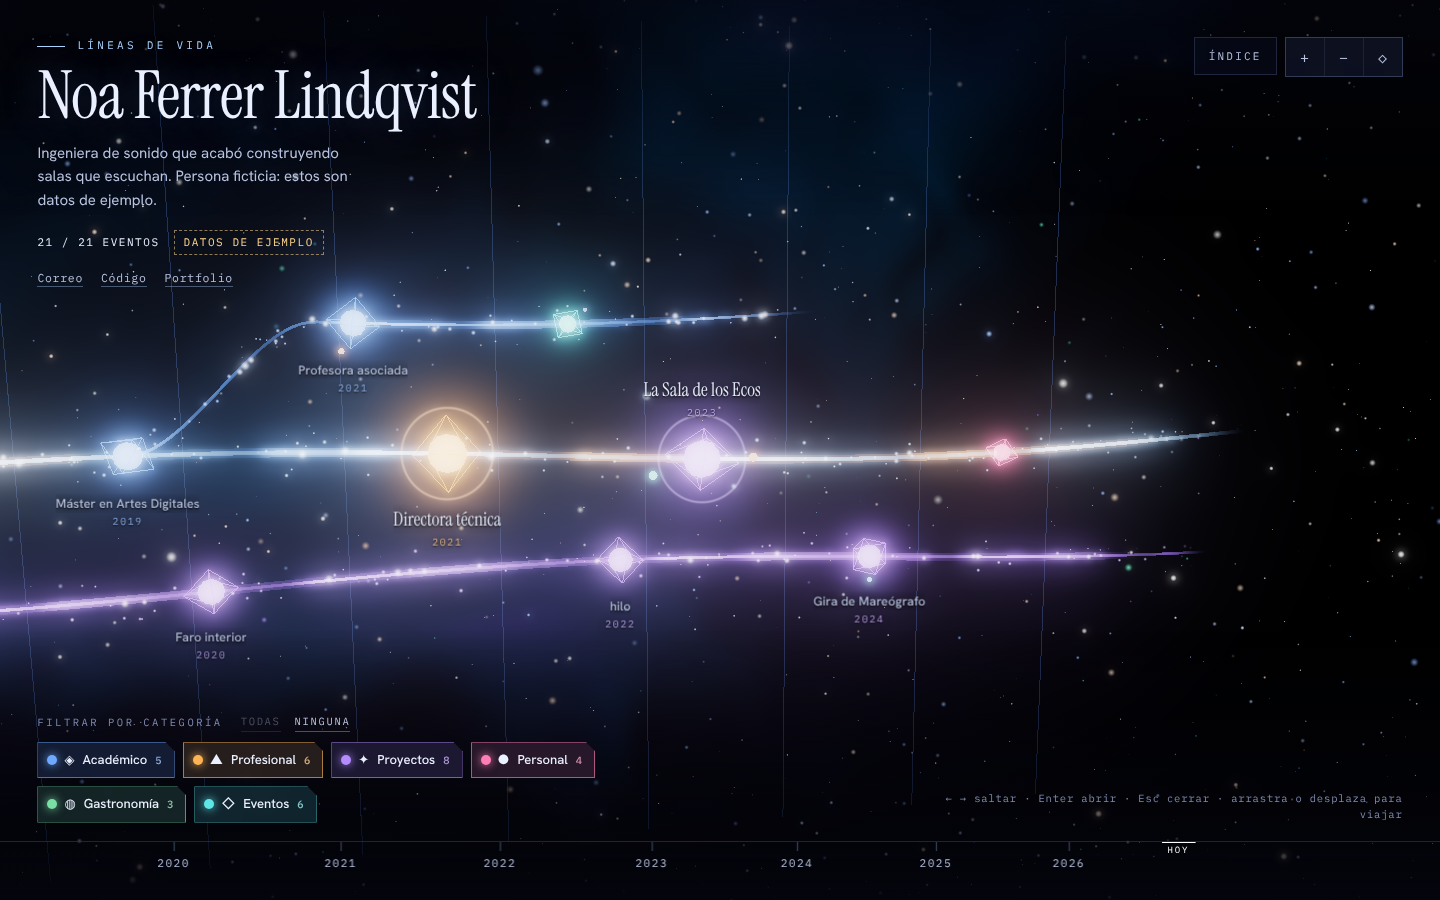
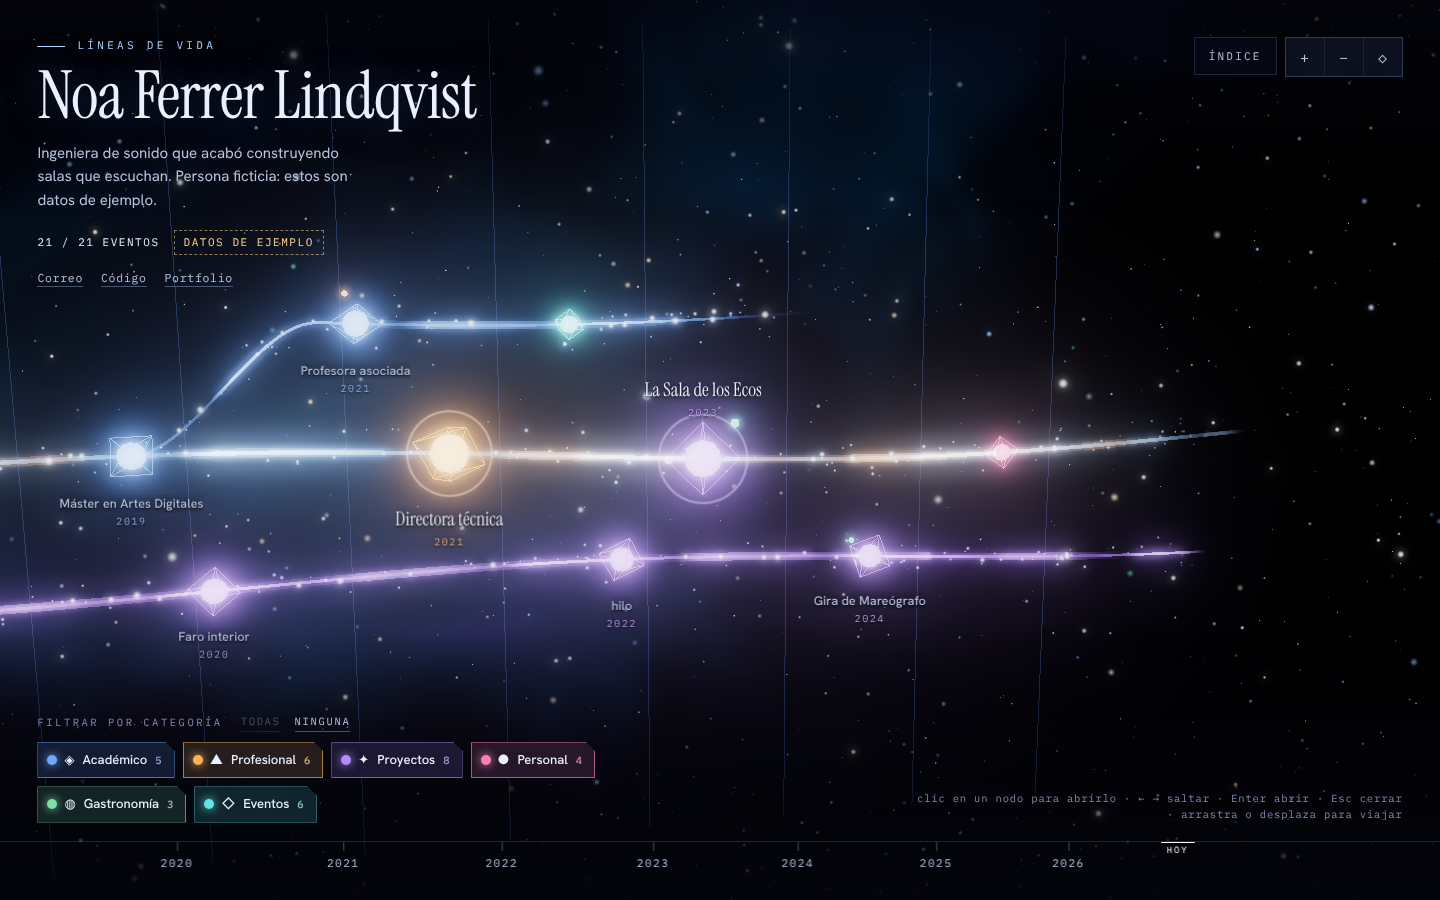
docs: estado de las discrepancias, informe de coherencia y capturas nuevas
- DOC_DISCREPANCIES con estado (resuelta / aceptada / abierta) por punto.
- COHERENCE_REPORT.md: qué se revisó, qué cambió y qué queda abierto.
- DEV_NOTES: build:public-data, pop-up no modal, ui-check con datos reales y
  Estado al 11/11. QA_REPORT: observaciones 1 y 2 resueltas.
- Schema más fiel al validador (URL sin mayúsculas, branchFrom kebab-case) y
  textos del pop-up y de la regla en STRINGS (C6, C7, C10).
- Capturas 01-escena y 08-movil regeneradas con datos de ejemplo.

Claude-Session: https://claude.ai/code/session_01SH3U5YXDA4fjxU1w7NAu1Y

diff --git a/docs/DOC_DISCREPANCIES.md b/docs/DOC_DISCREPANCIES.md
@@ -1,53 +1,52 @@
-# Discrepancias contrato ↔ código (agente 7, documentación)
+# Discrepancias contrato ↔ código
 
-Detectadas al documentar el proyecto el 10/11/2026 leyendo `docs/CONTRACT.md`, `docs/DEV_NOTES.md` y el código.
-El `README.md` describe siempre lo que hace el código. Aquí se listan las diferencias para el agente de coherencia.
+Detectadas por el agente 7 (documentación) el 10/11/2026. Revisadas y cerradas, cuando se ha podido, por el
+agente 8 (coherencia) el 11/11/2026 en la rama `feature/ux-coherencia`; el detalle está en
+[`COHERENCE_REPORT.md`](COHERENCE_REPORT.md). El `README.md` describe siempre lo que hace el código.
 
-Gravedad: **A** = conviene decidir o corregir · **B** = desviación consciente, ya razonada en DEV_NOTES · **C** = detalle menor.
+Gravedad: **A** = conviene decidir o corregir · **B** = desviación consciente, razonada en DEV_NOTES · **C** = detalle menor.
 
-## A. Requieren decisión o corrección
+Estado: **resuelta** (código o documentación corregidos) · **aceptada** (se mantiene, con el motivo) · **abierta**.
 
-| # | Tema | Contrato | Código | Nota |
-| --- | --- | --- | --- | --- |
-| A1 | CI | Exige `.github/workflows/ci.yml` (lint, typecheck, test con cobertura, build, `docker build`) | No existe el directorio `.github/` | El README documenta el flujo como definido en el contrato y avisa de que el fichero no está. Si otro agente lo añade, hay que quitar ese aviso (secciones 5.12 y 10 del README) |
-| A2 | Eventos privados | «`private` se oculta salvo `?private=1`» | El filtrado ocurre en el cliente (`TimelineFactory`). `life.json` se sirve entero y `?private=1` lo puede poner cualquiera | No es un control de acceso. El contrato no lo aclara y puede dar una falsa sensación de privacidad. El README lo avisa de forma explícita (3.8, 8 y 10) |
-| A3 | `hr/` en el contexto de Docker | «Datos personales nunca dentro de la imagen» | `.dockerignore` excluye `data/` y `public/data/life.json`, pero **no** `hr/`. `COPY . .` lo copia a la etapa de build | No llega a la imagen final (solo se copia `dist/`), pero queda en las capas y la caché de la etapa de build. `hr/` sí está en `.gitignore`. Sugerencia: añadir `hr` a `.dockerignore` |
-| A4 | Cadena de calidad | `lint && typecheck && test:coverage && build` debe pasar en limpio | Según DEV_NOTES, `test:coverage` no alcanzaba el umbral (solo había tests de humo en `tests/domain/smoke.test.ts`) | Depende del trabajo del agente de tests. El README no da cifras y remite a `docs/QA_REPORT.md` |
-| A5 | `docker build` | Imagen multi-stage funcional | `Dockerfile` y `docker-compose.yml` escritos pero sin ejecutar (registros bloqueados en el entorno) | Documentado como limitación. Pendiente de verificar en CI o en otra máquina |
-| A6 | `aria-modal` | Pop-up con `role="dialog"`, `aria-modal` | Se declara `aria-modal="true"`, pero el pop-up es un panel lateral sin velo: escena, filtros, controles e índice siguen operables con el puntero. El foco de teclado sí queda atrapado | Incoherencia semántica de accesibilidad. O se quita `aria-modal`, o se hace inerte el resto mientras está abierto |
+## A. Requerían decisión o corrección
 
-## B. Desviaciones conscientes (documentadas en DEV_NOTES)
+| # | Tema | Estado | Resolución |
+| --- | --- | --- | --- |
+| A1 | CI | Resuelta | `.github/workflows/ci.yml` existe (jobs `quality` y `docker`) y está en verde en GitHub. README (2, 5.12, 10) y contrato actualizados |
+| A2 | Eventos privados | Resuelta | Sigue siendo un filtro de cliente (no es control de acceso) y así lo dicen README 3.8/8 y el contrato. Para despliegues públicos existe `npm run build:public-data` (genera `data/public/life.json` sin privados) y `docker-compose.public.yml`; ambos documentados y con tests (`tests/scripts/build-public-data.test.ts`) |
+| A3 | `hr/` en el contexto de Docker | Resuelta | `.dockerignore` excluye `hr/` |
+| A4 | Cadena de calidad | Resuelta | `lint && typecheck && test:coverage && build` en verde; cobertura ~99 % (umbral 75 %) |
+| A5 | `docker build` | Resuelta | Se construye en la CI, con prueba de humo (`/healthz`, `/`, ejemplo 200 y `/data/life.json` 404). En el entorno de desarrollo sigue sin poder ejecutarse (registros bloqueados) |
+| A6 | `aria-modal` | Resuelta | El pop-up pasa a ser un diálogo **no modal**: sin `aria-modal` y sin trampa de Tab. Se eligió esta opción y no `inert` porque el diseño exige que escena, filtros, índice y ←/→ sigan operables con el panel abierto (B5, B6); hacerlo modal habría roto ese comportamiento. Contrato, README y tests actualizados |
+
+## B. Desviaciones conscientes
+
+Todas **aceptadas**: están razonadas en `docs/DEV_NOTES.md` y descritas en el README.
 
 | # | Tema | Contrato | Código |
 | --- | --- | --- | --- |
-| B1 | Volumen de Docker | Monta `./data/life.json` en `/usr/share/nginx/html/data/life.json:ro` | Monta el directorio `./data` en `/usr/share/nginx/userdata:ro`; nginx resuelve con `try_files /userdata/life.json /html/data/life.json =404`. La ruta literal del contrato sigue funcionando si se monta el fichero suelto |
-| B2 | `.gitignore` | Ignora `/data/life.json` y `/public/data/life.json` | Ignora `/data/*` (salvo `.gitkeep`), `/public/data/life.json` y además `/hr/`. Más amplio que el contrato |
-| B3 | Reglas de validación | ids únicos, categorías existentes, `branchFrom` existe, fechas válidas, `end >= start`, color hex, URLs http(s) | Además: ids y `branch` en kebab-case; `main` no admite `branchFrom`; `branchFrom` no puede apuntar al propio evento ni a la misma rama; un único origen por rama; sin ciclos entre ramas; año ≥ 1000; día real del mes; `media.type` solo `image` y `alt` obligatorio; al menos una categoría definida |
-| B4 | Zoom y rueda | «arrastrar/scroll para recorrer el tiempo, zoom» | Rueda = viajar; zoom con `Ctrl`/`Cmd`+rueda, pellizco, teclas `+`/`-` o botones; `0` = vista general |
-| B5 | Selección | «clic/Enter → pop-up» | Dos niveles: ←/→ enfocan (vuelo + pulso), `Enter`/`Espacio` abren. Con el pop-up abierto, ←/→ cambian de evento sin cerrarlo |
-| B6 | «Clic fuera» | Cierra el pop-up | Lo cierra un clic en el vacío de la escena o en cualquier zona sin `[data-keep-popup]`. Clic en filtros, controles o índice no lo cierra; arrastrar tampoco |
-| B7 | Marcas de año y rótulos | «Marcas de año sobre el eje» | Meridianos en la escena (`YearMarkers`) más regla y rótulos en DOM (`YearRuler`, `NodeLabels`) colocados por proyección |
-| B8 | Validación en el repositorio | El contrato no dice dónde se valida | `HttpJsonTimelineRepository` recibe el validador de dominio por constructor |
+| B1 | Volumen de Docker | Monta `./data/life.json` en `/usr/share/nginx/html/data/life.json:ro` | Monta el directorio `./data` en `/usr/share/nginx/userdata:ro`; nginx resuelve con `try_files`. El contrato ya lo menciona |
+| B2 | `.gitignore` | Ignora `/data/life.json` y `/public/data/life.json` | Ignora `/data/*` (salvo `.gitkeep`), `/public/data/life.json` y `/hr/`. Más amplio que el contrato |
+| B3 | Reglas de validación | Lista básica | Además: kebab-case, `main` sin `branchFrom`, un origen por rama, sin ciclos, año ≥ 1000, día real del mes, `media` solo `image` con `alt`, al menos una categoría, `shortTitle` ≤ 40 caracteres |
+| B4 | Zoom y rueda | «arrastrar/scroll para recorrer el tiempo, zoom» | Rueda = viajar; zoom con `Ctrl`/`Cmd`+rueda, pellizco, `+`/`-` o botones; `0` = vista general |
+| B5 | Selección | «clic/Enter → pop-up» | ←/→ enfocan, `Enter`/`Espacio` abren; con el pop-up abierto, ←/→ cambian de evento |
+| B6 | «Clic fuera» | Cierra el pop-up | Lo cierra un clic en el vacío de la escena o fuera de `[data-keep-popup]`; arrastrar no |
+| B7 | Marcas de año y rótulos | «Marcas de año sobre el eje» | Meridianos en la escena más regla y rótulos en DOM |
+| B8 | Validación en el repositorio | No dice dónde | `HttpJsonTimelineRepository` recibe el validador por constructor |
 
 ## C. Detalles menores
 
-| # | Tema | Contrato | Código |
+| # | Tema | Estado | Nota |
 | --- | --- | --- | --- |
-| C1 | Causas del fallback | «si responde 404 o no valida» | También cae al ejemplo con cualquier estado HTTP no 2xx, error de red o JSON mal formado |
-| C2 | Parámetros de URL | Solo menciona `?private=1` y el filtro en la URL | Existen además `?example=1`, `?debug=1`, `?nowebgl=1`, `?reduced-motion=1`. Los indicadores se activan con cualquier valor distinto de `0` o `false` (también `?private` sin valor) |
-| C3 | Salida de `TimelineLayout` | `{ nodes: {eventId, position, branch}, branches: {id, points[]} }` | Añade `years`, `bounds`, `nowX`; en nodos `span`; en ramas `originEventId`, `lane`, `open` |
-| C4 | Árbol de `src/` | Lista un subconjunto de clases | Existen además `CategorySelection`, `TimelineFactory`, `safeUrl`, `CompositeTimelineView`, `EventList`, `NodeLabels`, `YearRuler`, `KeyboardShortcuts`, `LiveAnnouncer`, `ViewControls`, `labelLayout`, `Nebula`, `YearMarkers`, `SelectionPulse`, `PointerInput`, `RenderLoop`, `webgl`, `math`, `textures` |
-| C5 | Fallback sin WebGL | «si no hay WebGL» | Se exige **WebGL2** (`getContext('webgl2')`): un dispositivo solo con WebGL1 va al modo lista |
-| C6 | Tooltip | «título + fechas» | Muestra categoría principal, título y fechas. El comentario de la clase `Tooltip` dice «+ resumen corto», pero el resumen no se pinta |
-| C7 | JSON Schema «equivalente» | `schema/life.schema.json` equivalente al tipo | Describe la forma, pero es más laxo que el validador: admite días imposibles (`2023-02-31`), años < 1000 y `branchFrom` sin formato; su patrón de URL distingue mayúsculas (`^https?://`) y el validador no. Nada en el proyecto valida contra el schema |
-| C8 | `SceneBuildOptions.fogDensity` | — | La opción se aplica a los materiales de las ramas, pero la niebla de la escena se crea en `ThreeTimelineView.render` con `0.0068` y `DEFAULT_PALETTE.background` fijos: cambiar la opción o la paleta en `SceneBuilder` no cambia la niebla ni el fondo |
-| C9 | Presupuesto de partículas | «`prefers-reduced-motion` reduce partículas» | `particleBudget` se evalúa una vez en `main.ts`; un cambio posterior de la preferencia o del ancho de ventana no lo recalcula (el resto del modo reducido sí reacciona en vivo) |
-| C10 | Textos de interfaz | — | No todos están en `strings.ts`: «Cuándo», «Dónde», «Con» (`EventPopup`), «hoy» (`YearRuler`) y los de `index.html` están escritos en el sitio. Relevante para la i18n futura |
-| C11 | «Añadir un efecto sin modificar» | «nuevos efectos = nuevas clases que implementan `SceneEffect`» | Cierto para la vista, pero hay que registrar la clase en la lista `effects` de `SceneBuilder.build()`; no hay registro externo |
-| C12 | Cabeceras de seguridad en desarrollo | — | CSP y demás cabeceras solo las pone nginx; `npm run dev` y `npm run preview` no las aplican, así que un fallo de CSP solo se ve tras desplegar o con `ui-check` contra nginx |
-
-## Notas para quien mantenga el README
-
-- El README no incluye cifras de cobertura ni resultados de comprobaciones: remite a `docs/QA_REPORT.md`, que en el momento de escribirlo aún no existía.
-- Si se resuelve A1 o A5, actualizar los avisos de las secciones 2, 5.12 y 10 del README.
-- Capturas en `docs/img/` copiadas de `/tmp/ui-shots` (datos de ejemplo, persona ficticia).
+| C1 | Causas del fallback | Aceptada | También cae al ejemplo con cualquier estado no 2xx, error de red o JSON mal formado. Es más robusto; README 3.3 lo documenta |
+| C2 | Parámetros de URL | Aceptada | `?example`, `?debug`, `?nowebgl`, `?reduced-motion` son herramientas de desarrollo y prueba; documentados en README 4.5 y DEV_NOTES |
+| C3 | Salida de `TimelineLayout` | Aceptada | Añade `years`, `bounds`, `nowX`, `span`, `originEventId`, `lane`, `open`: superconjunto del contrato |
+| C4 | Árbol de `src/` | Aceptada | El contrato lista un subconjunto; el árbol completo está en README 5 |
+| C5 | Fallback sin WebGL | Aceptada | Se exige WebGL2; documentado en README 2 |
+| C6 | Tooltip | Resuelta | El comentario de `Tooltip` ya no promete el resumen: categoría + título completo + fechas |
+| C7 | JSON Schema «equivalente» | Resuelta en parte | El patrón de URL ya no distingue mayúsculas (como el validador), `branchFrom` usa el formato kebab-case y `shortTitle` lleva `minLength`/`maxLength`. **Aceptado**: días imposibles y años < 1000 siguen siendo cosa del validador (un patrón no los expresa de forma legible); nada valida contra el schema (sin `ajv`) |
+| C8 | `SceneBuildOptions.fogDensity` | Abierta | La niebla de la escena y el fondo siguen fijos en `ThreeTimelineView.render`. Sin efecto visible hoy; corregir si se añade un tema de color |
+| C9 | Presupuesto de partículas | Abierta | `particleBudget` se calcula al cargar. Documentado como limitación en README 10 |
+| C10 | Textos de interfaz | Resuelta en parte | «Cuándo», «Dónde», «Con» y «hoy» pasan a `STRINGS`. Quedan los textos de `index.html` (README 6.5) |
+| C11 | «Añadir un efecto sin modificar» | Aceptada | Hay que registrar la clase en `SceneBuilder.build()`; README 6.2 lo explica |
+| C12 | Cabeceras de seguridad en desarrollo | Aceptada | Solo nginx aplica la CSP; `ui-check` se puede lanzar contra nginx (DEV_NOTES) |

diff --git a/docs/DEV_NOTES.md b/docs/DEV_NOTES.md
@@ -13,6 +13,7 @@ y cómo comprobar la interfaz de forma automática.
 | `npm run lint` / `npm run typecheck` | ESLint (con reglas de arquitectura) / `tsc --noEmit`. |
 | `npm run test` / `npm run test:coverage` | Vitest (jsdom). Cobertura v8 con umbral global del 75 %. |
 | `npm run validate:data [-- ruta]` | Valida un JSON con el validador del dominio. Sin ruta: `data/life.json` si existe, si no el de ejemplo. Código de salida 1 si hay errores, 2 si no se puede leer. |
+| `npm run build:public-data [-- origen destino]` | `data/life.json` → `data/public/life.json` sin eventos privados (reengancha `branchFrom` al ancestro público). Se despliega con `docker-compose.public.yml`. |
 
 Parámetros de URL: `?cat=a,b` (filtro; `?cat=` = ninguna), `?private=1` (muestra eventos privados),
 `?example=1` (fuerza los datos de ejemplo aunque haya `life.json`), `?debug=1` (expone
@@ -67,7 +68,8 @@ real es `webgl.ts` y `PostFX.ts`.
 4. **Selección en dos niveles**: ←/→ *enfocan* un evento (vuelo de cámara + pulso) y `Enter` abre
    el pop-up; con el pop-up abierto, ←/→ cambian de evento sin cerrarlo. Clic en un nodo abre
    directamente. `Esc` cierra el pop-up y, si no hay, suelta el foco.
-5. **"Clic fuera"**: el pop-up es un panel lateral, no hay velo que bloquee la escena. Lo cierran
+5. **"Clic fuera"**: el pop-up es un panel lateral, no hay velo que bloquee la escena. Por eso es
+   un diálogo **no modal** (sin `aria-modal` ni trampa de Tab; ver DOC_DISCREPANCIES A6). Lo cierran
    un clic en el vacío de la escena o en cualquier zona que no sea escena, filtros, controles o
    índice (`[data-keep-popup]`). Arrastrar la escena no lo cierra.
 6. **Rótulos y años en DOM**: los títulos de los nodos y la regla de años son elementos DOM
@@ -115,7 +117,9 @@ NODE_PATH=/tmp/ui-check/node_modules node scripts/ui-check.mjs \
 ```
 
 Opciones: `--url`, `--out`, `--example` (añade `?example=1`), `--event <id>` (nodo que se pulsa),
-`--category <id>` (chip que se desactiva), `--settle <ms>` (espera tras cargar; con SwiftShader la
+`--category <id>` (chip que se desactiva; un evento sigue visible mientras tenga alguna categoría
+activa, así que con datos reales hay que elegir una categoría con eventos exclusivos —p. ej.
+`profesional`— o la comprobación del contador falla aunque el filtro funcione), `--settle <ms>` (espera tras cargar; con SwiftShader la
 escena va a ~4 fps, así que hacen falta ~14 s para que termine el vuelo de apertura). Variable
 `CHROME_BIN` para otra ruta de Chrome.
 
@@ -135,36 +139,31 @@ Bloques del encargo (para reanudar si se corta la sesión):
 | Bloque | Estado |
 | --- | --- |
 | 1. Dominio + aplicación + carga de datos + escena three | Hecho. Compila y se ve. |
-| 2. Pop-up y filtros | Hecho (foco, Esc, clic fuera, chips, URL). |
-| 3. VFX y pulido | Hecho (bloom, partículas, estrellas, nebulosa, halos, niebla, pulso, rótulos). |
-| 4. Docker | Ficheros escritos; `docker build` SIN ejecutar (registro bloqueado, ver abajo). |
-| 5. ui-check y capturas | Hecho: `scripts/ui-check.mjs` en verde. |
+| 2. Pop-up y filtros | Hecho (foco, Esc, clic fuera, chips, URL). Pop-up no modal desde el 11/11. |
+| 3. VFX y pulido | Hecho (bloom, partículas, estrellas, nebulosa, halos, niebla, pulso, rótulos, ramas cerradas que se disuelven en partículas). |
+| 4. Docker | Hecho: `docker build` + prueba de humo en la CI (`.github/workflows/ci.yml`). En este entorno no se puede construir (registros bloqueados). |
+| 5. ui-check y capturas | Hecho: `scripts/ui-check.mjs` en verde con datos de ejemplo y con datos reales. |
+| 6. Tests (agente 3) | Hecho: ver `docs/QA_REPORT.md`. |
+| 7. UI/UX y coherencia (agentes 5 y 8) | Hecho en `feature/ux-coherencia` (11/11/2026): ver `docs/COHERENCE_REPORT.md`. |
 
-Resultados de la última pasada (10/11/2026):
+Última pasada (11/11/2026, rama `feature/ux-coherencia`):
 
-- `npm run lint`, `npm run typecheck`, `npm run build`: en verde.
-- `npm run test` / `npm run test:coverage`: 758 tests en 43 ficheros, en verde; cobertura global
-  99,67 % sentencias · 97,44 % ramas · 100 % funciones · 99,87 % líneas (umbral 75 %). La cadena de
-  calidad del contrato (`lint && typecheck && test:coverage && build`) pasa entera. Detalle por
-  capa, bugs corregidos y huecos en `docs/QA_REPORT.md`; cómo están organizados los tests, en la
-  sección «Tests» de más abajo.
-- **`docker build` no se ha podido ejecutar**: la política de red de este entorno deniega (403) los
-  registros de imágenes (`registry-1.docker.io`; tampoco `public.ecr.aws`, `mirror.gcr.io`), así
-  que `node:22-alpine` y `nginx:alpine` no se descargan. El `Dockerfile` y `docker-compose.yml`
-  están sin probar. Lo que sí se probó es `nginx/default.conf` con un nginx local (1.24, instalado
-  con apt) reproduciendo las rutas del contenedor: `/` 200, `/data/life.example.json` 200,
-  `/healthz` 200, `/data/life.json` 404 sin volumen y 200 con el fichero en `userdata/`; cabeceras
-  de seguridad, caché y gzip correctos; y `scripts/ui-check.mjs` en verde contra ese nginx (CSP
-  aplicada, sin errores de consola). Pendiente: construir la imagen en CI o en una máquina con
-  acceso a Docker Hub.
+- `npm run lint && npm run typecheck && npm run test:coverage && npm run build`: en verde.
+  Cifras de tests y cobertura en `docs/COHERENCE_REPORT.md`.
+- `scripts/ui-check.mjs`: «Todo correcto» con `--example` y con los datos reales
+  (`--event concurso-houdini-rbd --category profesional`).
+- Comprobado en Chrome headless: el enlace de salto abre el índice y enfoca el primer evento;
+  `Ctrl`+`+` no hace zoom en la escena; el pop-up recibe el foco al abrir y no lo roba al cerrar si
+  el usuario ya lo movió a un chip.
+- CI de GitHub en verde (jobs `quality` y `docker`); `main` solo recibe cambios por PR desde `develop`.
 
 ## Pendiente / limitaciones conocidas
 
-- No hay `.github/workflows/ci.yml` (no estaba en el encargo de este agente).
 - No hay enlace profundo a un evento (`?event=id`); solo el filtro vive en la URL.
 - Textos de interfaz solo en español (`infrastructure/dom/strings.ts`); `meta.locale` se usa para
   el formato de fechas y el atributo `lang`.
-- El ancho de los rótulos de nodo se estima por número de caracteres (no se mide el DOM).
+- El ancho de los rótulos de nodo se estima por número de caracteres (no se mide el DOM). Para
+  títulos largos existe `shortTitle`; un rótulo junto al borde se desplaza para verse entero.
 - Las ramas se separan por carriles en Y/Z; con muchas ramas simultáneas (> 4) la escena crece en
   vertical y habría que revisar el encuadre por defecto.
 - Rendimiento medido solo con renderizado por software (SwiftShader, ~4 fps a 1440×900); no se ha

diff --git a/docs/COHERENCE_REPORT.md b/docs/COHERENCE_REPORT.md
@@ -1,0 +1,41 @@
+# Informe de coherencia y UI/UX (agentes 5 y 8)
+
+Rama `feature/ux-coherencia`, 11/11/2026. Revisión de contrato ↔ código ↔ tests ↔ README ↔ CI ↔
+Docker/nginx/compose ↔ scripts npm, y pulido visual a partir de capturas reales.
+
+## Qué se revisó
+
+- `docs/CONTRACT.md`, `docs/DEV_NOTES.md`, `docs/QA_REPORT.md`, `docs/DOC_DISCREPANCIES.md`, `README.md`.
+- `.github/workflows/ci.yml`, `Dockerfile`, `.dockerignore`, `docker-compose.yml`, `docker-compose.public.yml`,
+  `package.json` (scripts), `scripts/build-public-data.ts`, `schema/life.schema.json`.
+- `scripts/ui-check.mjs` dos veces: con datos de ejemplo (`--example`) y con los datos reales (sin copiar esas
+  capturas al repositorio). Comprobación aparte en Chrome headless de los tres arreglos de accesibilidad recientes.
+- Privacidad de lo commiteado: `git grep` y `git log -p` de todas las ramas buscando correos, teléfonos, fechas de
+  nacimiento y frases de `data/life.json`. Resultado: nada (solo `a@example.com` en un test). En git solo está
+  `data/.gitkeep`; nunca se ha commiteado `hr/`. El README solo nombra al autor y su GitHub.
+
+## Qué se cambió
+
+| Área | Cambio |
+| --- | --- |
+| Accesibilidad | Pop-up como diálogo **no modal**: fuera `aria-modal` y la trampa de Tab (A6). Se elimina `focusableWithin`, que quedaba sin uso |
+| Rótulos | Campo opcional `shortTitle` (≤ 40 caracteres) en tipo, validador, factoría, schema, contrato, README, ejemplo y tests; `LifeEvent.labelTitle`. `clampLabelX`: un rótulo junto al borde se desplaza para verse entero; si el nodo está fuera de pantalla no se rotula |
+| Ramas | Una rama cerrada (no llega al presente) se disuelve: sus motas frenan, se dispersan, suben y se apagan (`FlowPath.dissolve`). Una rama con eventos anteriores a su origen se separa de la línea madre en su propia X |
+| Primer vistazo | La ayuda empieza por «clic en un nodo para abrirlo»; en táctil explica los gestos y se muestra en móvil encima de los filtros. Halo oscuro en el texto de la cabecera en móvil |
+| Coherencia | README: CI real (jobs, prueba de humo, `main` solo por PR), `build:public-data`, `docker-compose.public.yml`, tabla de scripts y de ficheros de datos, avisos de Docker. Contrato: scripts, volumen real, despliegue público, pasos de CI. Schema: URL sin distinguir mayúsculas, `branchFrom` kebab-case. Textos «Cuándo/Dónde/Con/hoy» a `STRINGS`. Comentario de `Tooltip` |
+| Tests | `tests/scripts/build-public-data.test.ts` (`toPublicData` y el script en proceso aparte); tests nuevos de `shortTitle`, `clampLabelX`, rama anterior a su origen, disolución de partículas y pop-up no modal. 776 tests en 44 ficheros; cobertura 99,78 % sentencias · 97,59 % ramas · 100 % funciones · 100 % líneas |
+| Capturas | `docs/img/01-escena.png` y `docs/img/08-movil.png` regeneradas con datos de ejemplo |
+
+Estado de cada discrepancia: [`DOC_DISCREPANCIES.md`](DOC_DISCREPANCIES.md).
+
+## Qué queda abierto
+
+- **C8** niebla y fondo fijos en `ThreeTimelineView` (la opción `fogDensity` no los cambia).
+- **C9** `particleBudget` no se recalcula al cambiar la preferencia de movimiento o el tamaño de ventana.
+- **C10** textos de `index.html` fuera de `STRINGS` (i18n futura).
+- Móvil: en el encuadre inicial una rama puede pasar por detrás de los enlaces de la cabecera; el halo mejora
+  la lectura, pero un encuadre que reserve la zona de la cabecera sería la solución de fondo.
+- El año de un rótulo colocado encima de su nodo puede quedar sobre el filamento de la rama (legible, pero
+  mejorable con un fondo sutil).
+- `ui-check` con datos reales necesita `--category` con eventos exclusivos (ver DEV_NOTES).
+- `docs/QA_REPORT.md` conserva las cifras de su pasada (758 tests); las actuales están arriba.

diff --git a/docs/QA_REPORT.md b/docs/QA_REPORT.md
@@ -116,6 +116,8 @@ Observaciones sobre el producto (no se han cambiado; son decisiones, no fallos c
    sean posteriores a su `branchFrom`. Si el primer evento de la rama es anterior, el layout
    arranca la rama antes del nodo de origen (a su altura, pero en otra X), y la bifurcación no
    sale visualmente del nodo. Valdría una regla más en el validador.
+   **Resuelto (11/11/2026):** la rama se separa ahora de la línea madre en su propia X (test en
+   `TimelineLayout.test.ts`); no se añade regla al validador porque es un caso legítimo.
 2. **`aria-modal="true"` en un panel que no es modal.** El contrato lo pide, pero la escena y los
    filtros siguen siendo utilizables con el ratón mientras el pop-up está abierto (DEV_NOTES,
    decisión 5). Para un lector de pantalla, `aria-modal` declara inerte todo lo demás.
